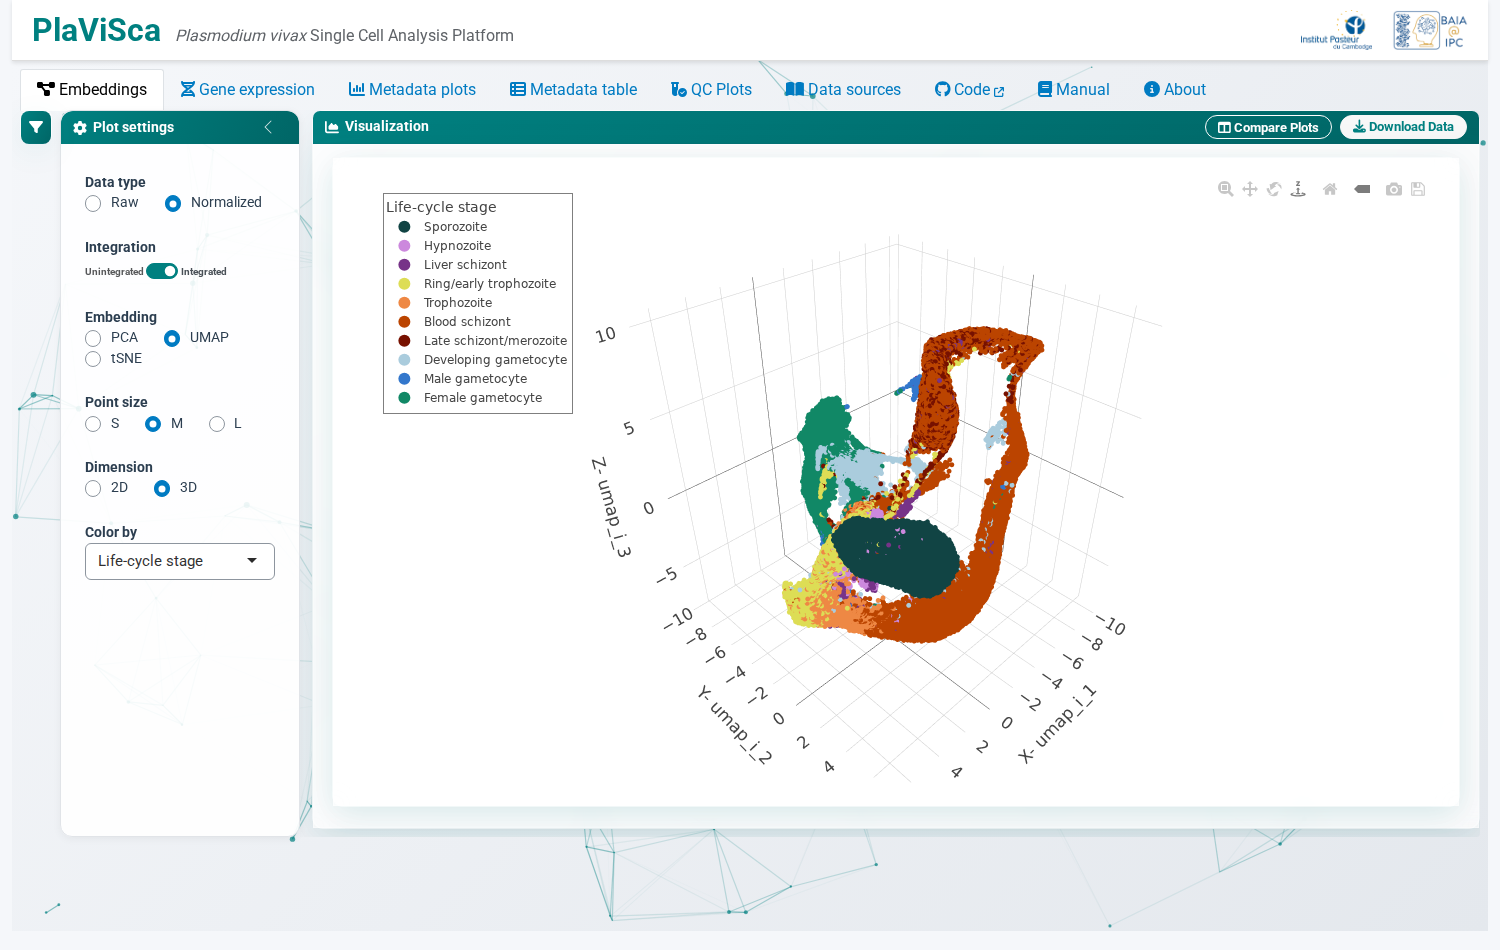
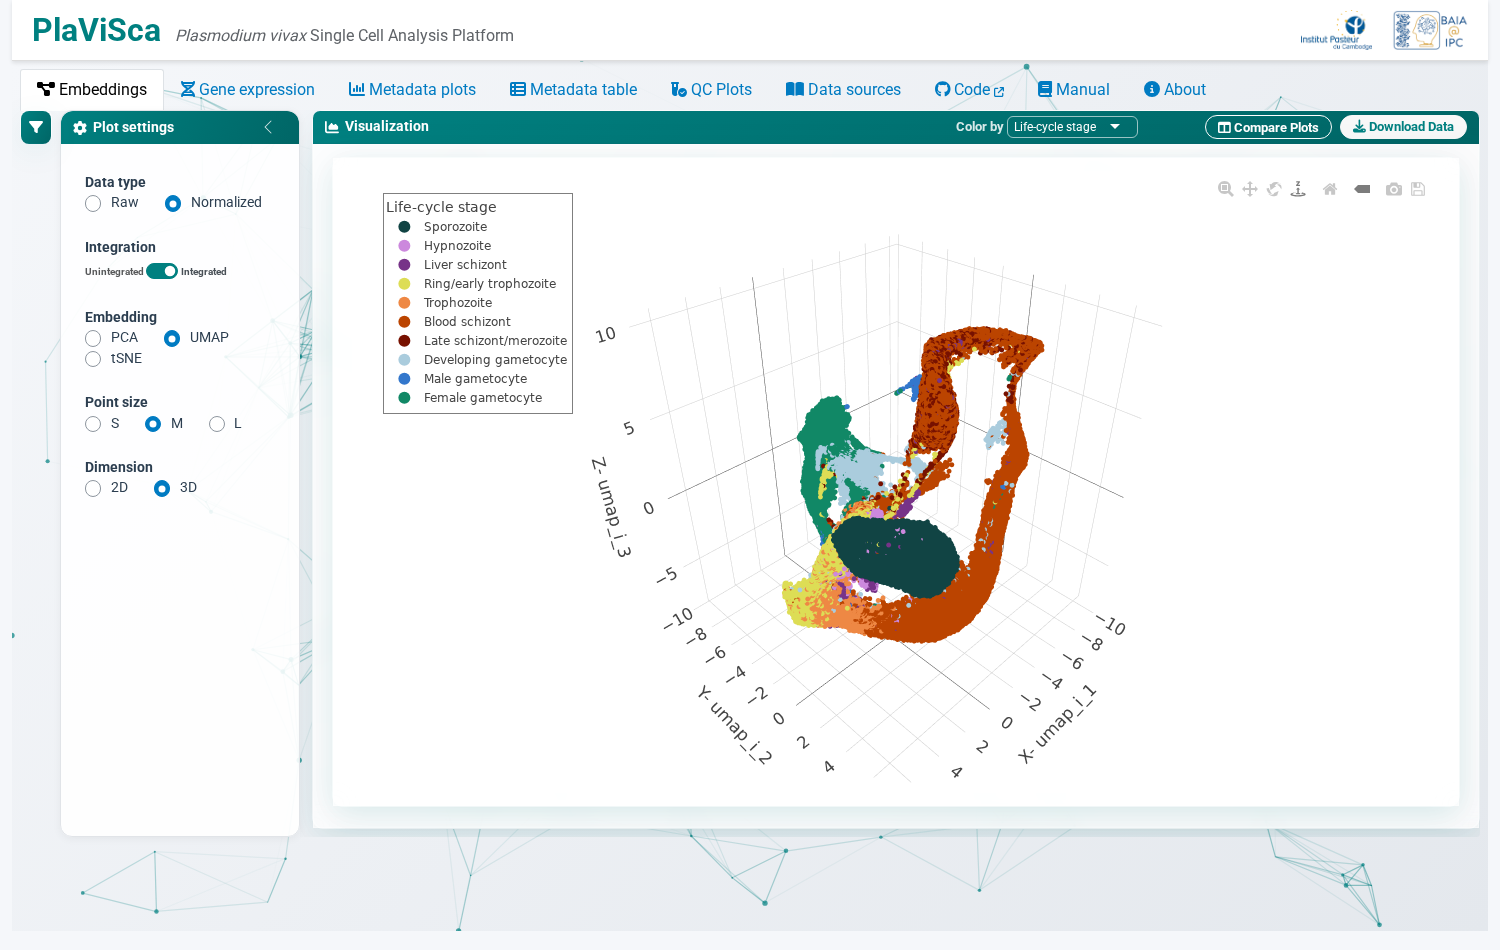
Embeddings: Color by of the single plot in the title bar
The "Color by" menu of the single plot moves from the settings panel
to the Visualization title bar, before Compare Plots, like the menus of
the two comparison plots. Conditional parts of the title bar can now be
hidden (the bar forced all its parts visible). Side by side in 3D, the
legend stays over the plot: the 3D scene needs all of the height.
Manual updated, its Embeddings screenshots retaken.

diff --git a/www/style.css b/www/style.css
@@ -849,6 +849,41 @@ table.dataTable thead th {
   margin-left: auto;
 }
 
+/* "Color by" of the single plot, in the dark title bar */
+.visualization-header .header-color-by {
+  display: flex;
+  align-items: center;
+  gap: 4px;
+}
+
+.visualization-header .header-color-by-label {
+  color: rgba(255, 255, 255, 0.85);
+  font-size: 0.8rem;
+}
+
+.visualization-header .header-color-by .selectize-input,
+.visualization-header .header-color-by .selectize-input input {
+  color: #fff !important;
+}
+
+.visualization-header .header-color-by .selectize-input {
+  border-color: rgba(255, 255, 255, 0.6) !important;
+  border-radius: 999px;
+}
+
+.visualization-header .header-color-by .selectize-control.single .selectize-input:after {
+  border-top-color: #fff;
+}
+
+.visualization-header .header-color-by .selectize-input:hover,
+.visualization-header .header-color-by .selectize-input.focus {
+  color: var(--primary-color) !important;
+}
+
+.visualization-header .header-color-by .selectize-input.focus input {
+  color: var(--primary-color) !important;
+}
+
 .visualization-header #enable_comparison,
 .visualization-header #download_data {
   min-width: 0;
@@ -873,8 +908,8 @@ table.dataTable thead th {
   color: var(--primary-color);
 }
 
-/* the title bar forces its children visible; let conditionalPanel hide this */
-.card-header.visualization-header .link-views[style*="display: none"] {
+/* the title bar forces its children visible; let conditionalPanel hide them */
+.card-header.visualization-header [data-display-if][style*="display: none"] {
   display: none !important;
 }
 

diff --git a/manual/docs/source/user_manual.md b/manual/docs/source/user_manual.md
@@ -71,11 +71,11 @@ The Embeddings tab offers dimensionality reduction and customizable visualizatio
 | Dimension    | 2D / 3D (default)                              |
 | X / Y axes   | Selectable when 2D mode is active              |
 
-**Color by**: Study label, Broad life-cycle stage, Life-cycle stage, Host species, Host and tissue, Treatment, Parasite strain / isolate, Parasite origin location, Single-cell technology, or Genes.
+**Color by** (in the title bar of the plot): Study label, Broad life-cycle stage, Life-cycle stage, Host species, Host and tissue, Treatment, Parasite strain / isolate, Parasite origin location, Single-cell technology, or Genes. With Genes, choose the genes in the settings panel.
 
-**Visualization bar**: the title bar of the plot holds the **Compare Plots** and **Download Data** buttons.
+**Visualization bar**: the title bar of the plot holds **Color by** and the **Compare Plots** and **Download Data** buttons.
 
-**Compare Plots mode**: Click **Compare Plots** to display two independent plots (Plot A and Plot B) side-by-side, each with its own **Color by** selector in its title bar; a gene input appears above a plot when it is colored by genes.
+**Compare Plots mode**: Click **Compare Plots** to display two independent plots (Plot A and Plot B) side-by-side, each with its own **Color by** selector in its title bar; a gene input appears above a plot when it is colored by genes. The legends sit below the plots, so that they do not cover cells.
 
 **Interactive Cell Selection**: Click any cell to open a modal dialog showing a per-cell gene expression table (gene ID, gene name, expression value, description). The table is filterable and exportable as CSV.
 
